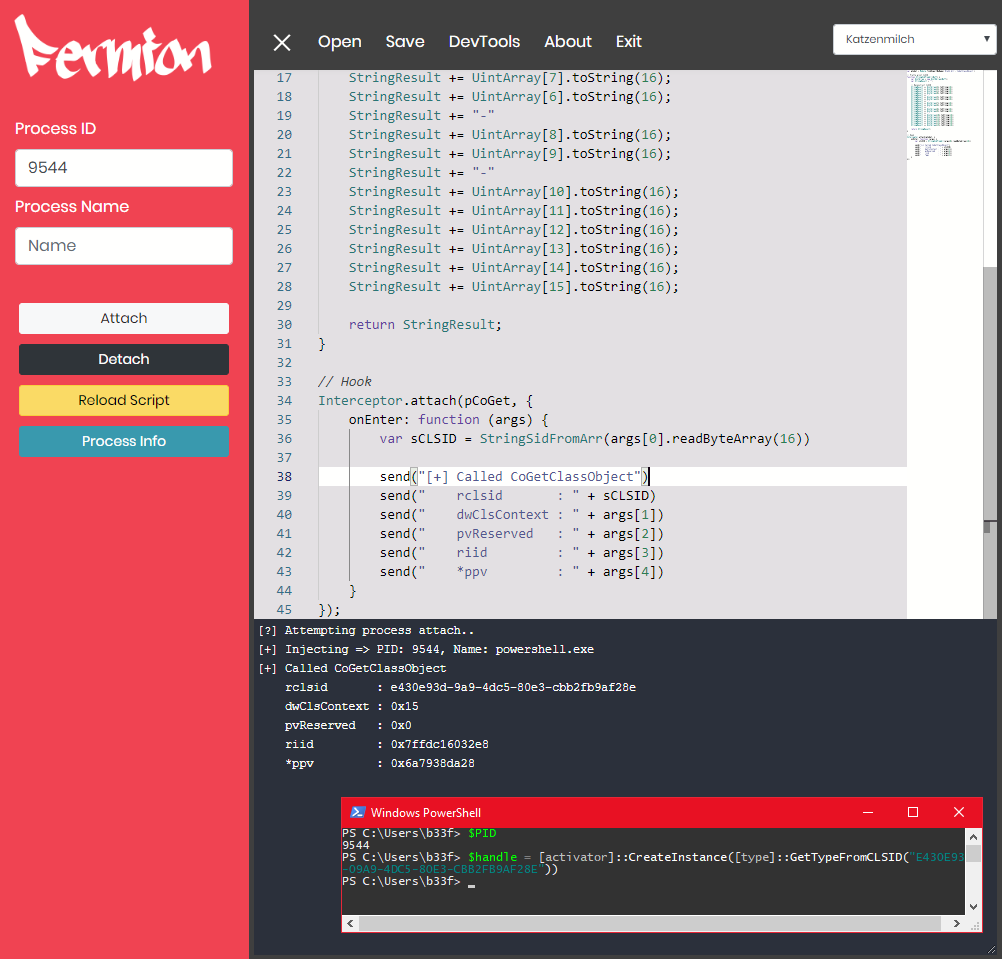
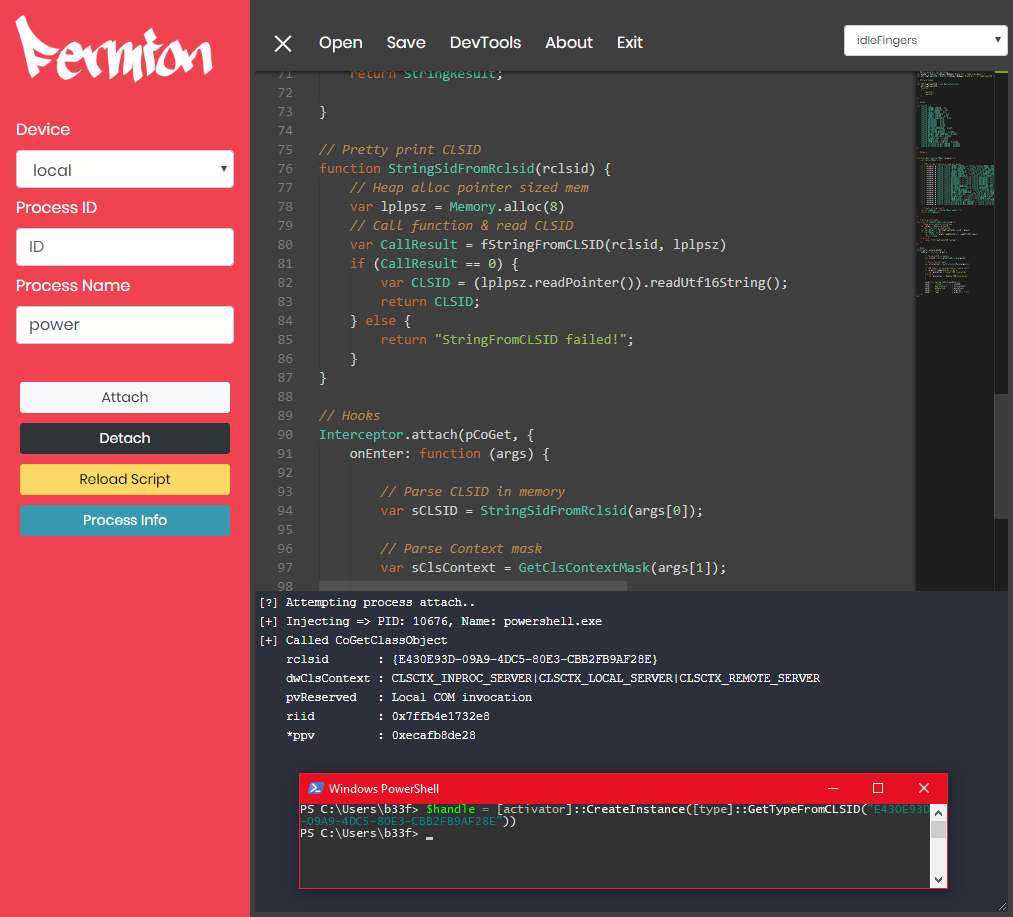
+Fermion-v06

diff --git a/Examples/CoGetClassObject.js b/Examples/CoGetClassObject.js
@@ -1,0 +1,118 @@
+//------------------------//
+// Hooking COM Invocation //
+//------------------------//
+
+// Native function pointers
+//-----------------------
+var pCoGet = Module.findExportByName('Ole32.dll','CoGetClassObject')
+var pStringFromCLSID = Module.findExportByName('Ole32.dll','StringFromCLSID')
+
+// API prototype
+//-----------------------
+var fStringFromCLSID = new NativeFunction(
+    pStringFromCLSID,
+    "uint32",
+    [
+        "pointer",
+        "pointer"
+    ]
+);
+
+// Enums
+//-----------------------
+var CLSCTX = {
+    CLSCTX_INPROC_SERVER : 0x1,
+    CLSCTX_INPROC_HANDLER : 0x2,
+    CLSCTX_LOCAL_SERVER : 0x4,
+    CLSCTX_INPROC_SERVER16 : 0x8,
+    CLSCTX_REMOTE_SERVER : 0x10,
+    CLSCTX_INPROC_HANDLER16 : 0x20,
+    CLSCTX_RESERVED1 : 0x40,
+    CLSCTX_RESERVED2 : 0x80,
+    CLSCTX_RESERVED3 : 0x100,
+    CLSCTX_RESERVED4 : 0x200,
+    CLSCTX_NO_CODE_DOWNLOAD : 0x400,
+    CLSCTX_RESERVED5 : 0x800,
+    CLSCTX_NO_CUSTOM_MARSHAL : 0x1000,
+    CLSCTX_ENABLE_CODE_DOWNLOAD : 0x2000,
+    CLSCTX_NO_FAILURE_LOG : 0x4000,
+    CLSCTX_DISABLE_AAA : 0x8000,
+    CLSCTX_ENABLE_AAA : 0x10000,
+    CLSCTX_FROM_DEFAULT_CONTEXT : 0x20000,
+    CLSCTX_ACTIVATE_32_BIT_SERVER : 0x40000,
+    CLSCTX_ACTIVATE_64_BIT_SERVER : 0x80000
+}
+
+// Helpers
+//-----------------------
+function GetClsContextMask (enumval) {
+    var ContextMask = [];
+
+    // IIRC JS can't natively read bit masks
+    if ( (enumval & CLSCTX.CLSCTX_INPROC_SERVER) == CLSCTX.CLSCTX_INPROC_SERVER) ContextMask.push("CLSCTX_INPROC_SERVER");
+    if ( (enumval & CLSCTX.CLSCTX_INPROC_HANDLER) == CLSCTX.CLSCTX_INPROC_HANDLER) ContextMask.push("CLSCTX_INPROC_HANDLER");
+    if ( (enumval & CLSCTX.CLSCTX_LOCAL_SERVER) == CLSCTX.CLSCTX_LOCAL_SERVER) ContextMask.push("CLSCTX_LOCAL_SERVER");
+    if ( (enumval & CLSCTX.CLSCTX_INPROC_SERVER16) == CLSCTX.CLSCTX_INPROC_SERVER16) ContextMask.push("CLSCTX_INPROC_SERVER16");
+    if ( (enumval & CLSCTX.CLSCTX_REMOTE_SERVER) == CLSCTX.CLSCTX_REMOTE_SERVER) ContextMask.push("CLSCTX_REMOTE_SERVER");
+    if ( (enumval & CLSCTX.CLSCTX_INPROC_HANDLER16) == CLSCTX.CLSCTX_INPROC_HANDLER16) ContextMask.push("CLSCTX_INPROC_HANDLER16");
+    if ( (enumval & CLSCTX.CLSCTX_RESERVED1) == CLSCTX.CLSCTX_RESERVED1) ContextMask.push("CLSCTX_RESERVED1");
+    if ( (enumval & CLSCTX.CLSCTX_RESERVED2) == CLSCTX.CLSCTX_RESERVED2) ContextMask.push("CLSCTX_RESERVED2");
+    if ( (enumval & CLSCTX.CLSCTX_RESERVED3) == CLSCTX.CLSCTX_RESERVED3) ContextMask.push("CLSCTX_RESERVED3");
+    if ( (enumval & CLSCTX.CLSCTX_RESERVED4) == CLSCTX.CLSCTX_RESERVED4) ContextMask.push("CLSCTX_RESERVED4");
+    if ( (enumval & CLSCTX.CLSCTX_NO_CODE_DOWNLOAD) == CLSCTX.CLSCTX_NO_CODE_DOWNLOAD) ContextMask.push("CLSCTX_NO_CODE_DOWNLOAD");
+    if ( (enumval & CLSCTX.CLSCTX_RESERVED5) == CLSCTX.CLSCTX_RESERVED5) ContextMask.push("CLSCTX_RESERVED5");
+    if ( (enumval & CLSCTX.CLSCTX_NO_CUSTOM_MARSHAL) == CLSCTX.CLSCTX_NO_CUSTOM_MARSHAL) ContextMask.push("CLSCTX_NO_CUSTOM_MARSHAL");
+    if ( (enumval & CLSCTX.CLSCTX_ENABLE_CODE_DOWNLOAD) == CLSCTX.CLSCTX_ENABLE_CODE_DOWNLOAD) ContextMask.push("CLSCTX_ENABLE_CODE_DOWNLOAD");
+    if ( (enumval & CLSCTX.CLSCTX_NO_FAILURE_LOG) == CLSCTX.CLSCTX_NO_FAILURE_LOG) ContextMask.push("CLSCTX_NO_FAILURE_LOG");
+    if ( (enumval & CLSCTX.CLSCTX_DISABLE_AAA) == CLSCTX.CLSCTX_DISABLE_AAA) ContextMask.push("CLSCTX_DISABLE_AAA");
+    if ( (enumval & CLSCTX.CLSCTX_ENABLE_AAA) == CLSCTX.CLSCTX_ENABLE_AAA) ContextMask.push("CLSCTX_ENABLE_AAA");
+    if ( (enumval & CLSCTX.CLSCTX_FROM_DEFAULT_CONTEXT) == CLSCTX.CLSCTX_FROM_DEFAULT_CONTEXT) ContextMask.push("CLSCTX_FROM_DEFAULT_CONTEXT");
+    if ( (enumval & CLSCTX.CLSCTX_ACTIVATE_32_BIT_SERVER) == CLSCTX.CLSCTX_ACTIVATE_32_BIT_SERVER) ContextMask.push("CLSCTX_ACTIVATE_32_BIT_SERVER");
+    if ( (enumval & CLSCTX.CLSCTX_ACTIVATE_64_BIT_SERVER) == CLSCTX.CLSCTX_ACTIVATE_64_BIT_SERVER) ContextMask.push("CLSCTX_ACTIVATE_64_BIT_SERVER");
+    
+    // Create string result
+    var StringResult = ContextMask.join("|");
+    return StringResult;
+
+}
+
+// Call native Ole32!StringFromCLSID to resolve CLSID
+function StringSidFromRclsid(rclsid) {
+    // Heap alloc pointer sized mem
+    var lplpsz = Memory.alloc(8)
+    // Call function & read CLSID
+    var CallResult = fStringFromCLSID(rclsid, lplpsz)
+    if (CallResult == 0) {
+        var CLSID = (lplpsz.readPointer()).readUtf16String();
+        return CLSID;
+    } else {
+        return "StringFromCLSID failed!";
+    }
+}
+
+// Hooks
+//-----------------------
+Interceptor.attach(pCoGet, {
+	onEnter: function (args) {
+
+        // Parse CLSID in memory
+		var sCLSID = StringSidFromRclsid(args[0]);
+
+        // Parse Context mask
+        var sClsContext = GetClsContextMask(args[1]);
+
+        // COM object is initialized on remote host?
+        if (args[2].compare(0x0) == 0) {
+            var pLocation = "Local COM invocation"
+        } else {
+            var pLocation = "Remote COM invocation"
+        }
+
+		send("[+] Called CoGetClassObject")
+		send("    rclsid       : " + sCLSID)
+		send("    dwClsContext : " + sClsContext)
+		send("    pvReserved   : " + pLocation)
+		send("    riid         : " + args[3])
+		send("    *ppv         : " + args[4] + "\n")
+	}
+});

diff --git a/Fermion/src/render.js b/Fermion/src/render.js
@@ -22,6 +22,7 @@ let script = null;
 let session = null;
 let logMutex = new MutexPromise('48011b2b9a930ee19e26320e5adbffa2e309663c');
 let RunningLog = [];
+var deviceId = 'local';
 
 // Attach
 async function inject(AttachTo) {
@@ -30,7 +31,8 @@ async function inject(AttachTo) {
 	process.on('SIGINT', stop);
 
 	// Attach and load script
-	session = await frida.attach(AttachTo);
+	device = await frida.getDevice(deviceId);
+	session = await device.attach(AttachTo);
 	session.detached.connect(onDetached);
 	script = await session.createScript(MonacoCodeEditor.getValue());
 
@@ -64,8 +66,8 @@ function onDetached(reason) {
 
 // Process listing
 async function getProcList() {
-	let LocalMachine = await frida.getDevice('local');
-	let Applications = await LocalMachine.enumerateProcesses();
+	let currentDevice = await frida.getDevice(deviceId);
+	let Applications = await currentDevice.enumerateProcesses();
 	return Applications;
 }
 
@@ -122,6 +124,8 @@ document.getElementById("FridaAttach").onclick = function () {
 					appendFridaLog(e);
 				});
 			}
+		}).catch((err) => {
+			appendFridaLog(`[!] Error: ${err.message}`);
 		});
 
 	} else {
@@ -172,12 +176,49 @@ document.getElementById("FridaProc").onclick = function () {
 		backgroundColor: '#464646',
 		webPreferences: { nodeIntegration: true }
 	})
-	ProcWin.loadURL(modalPath);
+	ProcWin.loadURL(modalPath+"?deviceId="+deviceId);
 	ProcWin.once('ready-to-show', () => {
 		ProcWin.show();
 		ProcWin.focus();
 	});
 	ProcWin.on('close', function () { ProcWin = null })
+}
+
+async function updateDeviceList() {
+	// Get dropdown array
+	var dn = document.getElementById("deviceName");
+	var currentDevice = dn.options[deviceName.selectedIndex].value;
+	var dnArr = Array.from(dn.options).map(elem => elem.text);
+
+	// Get device array
+	var dm = frida.getDeviceManager();
+	var dev = await dm.enumerateDevices();
+	var devArr = dev.map(elem => elem.id);
+
+	// Does the current device still exist?
+	if (!devArr.includes(currentDevice)) {
+		// Local is always a valid target
+		dn.selectedIndex = 0;
+		deviceId = 'local';
+	}
+
+	// Remove stale entries from the dropdown
+	dnArr.forEach(function(elem) {
+		if (!devArr.includes(elem)) {
+			$(`#deviceName option:contains("${elem}")`).remove()
+		}
+	})
+
+	// Add new entries to the dropdown
+	devArr.forEach(function(elem) {
+		if (!dnArr.includes(elem) && elem != "tcp") {
+			$("#deviceName").append(new Option(elem))
+		}
+	})
+}
+
+document.getElementById("deviceName").onchange = function () {
+	deviceId = this.value;
 }
 
 // Menu UI hooks

diff --git a/Fermion/src/proc.html b/Fermion/src/proc.html
@@ -16,8 +16,13 @@
 			width: 0px;
 		}
 
-		td, th {
+		p, td, th {
 			color: #ffffff !important;
+		}
+
+		p {
+			font-weight: bold;
+			padding-top: 50%;
 		}
 
 		div.barFrame {
@@ -57,7 +62,7 @@
 			</a>
 		</div>
 
-		<div class="row dataFrame">
+		<div id="DataContainer" class="row dataFrame">
 			<table id="ProcSet" class="table table-borderless table-hover table-sm">
 				<thead>
 					<tr>
@@ -69,6 +74,7 @@
 				</tbody>
 			</table>
 		</div>
+		<div id="IsError"></div>
 	</div>
 
 	<script type="text/javascript">
@@ -76,10 +82,14 @@
 		// Overwrite default node.js prop to get Jquery working
 		window.$ = window.jQuery = require('jquery');
 
+		// Get device currently selected
+		url = global.location;
+		deviceId = new URL(url).searchParams.get('deviceId');
+
 		// Populate poc list
 		async function getProcList() {
-			let LocalMachine = await frida.getDevice("local");
-			let Applications = await LocalMachine.enumerateProcesses();
+			let currentDevice = await frida.getDevice(deviceId);
+			let Applications = await currentDevice.enumerateProcesses();
 			return Applications;
 		}
 		getProcList().then(data => {
@@ -99,6 +109,12 @@
 				pid.innerHTML = data[i].pid;
 				name.innerHTML = data[i].name;
 			}
+		}).catch((err) => {
+			$("#ProcSet").remove();
+			var node = document.createElement("p");
+			var errMsg = document.createTextNode(err.message);
+			node.appendChild(errMsg);
+			document.getElementById("DataContainer").appendChild(node);
 		});
 
 		// Close window handler

diff --git a/Fermion/src/frida.html b/Fermion/src/frida.html
@@ -28,6 +28,12 @@
 
 			<ul class="list-unstyled components">
 				<div class="form-group mx-sm-3 mb-2">
+					<label for="deviceName">Device</label>
+					<select type="deviceName" class="form-control" id="deviceName">
+						<option>local</option>
+					</select>
+				</div>
+				<div class="form-group mx-sm-3 mb-2">
 					<label for="procID">Process ID</label>
 					<input type="procID" class="form-control" id="procID" placeholder="ID">
 				</div>
@@ -180,7 +186,7 @@
 			var editor = monaco.editor.create(document.getElementById('container'), {
 				value: [
 					'//-------------------------------------------//',
-					'//              Fermion v0.5                 //',
+					'//              Fermion v0.6                 //',
 					'//                                    ~b33f  //',
 					'//-------------------------------------------//',
 					'',
@@ -207,7 +213,6 @@
 					'//   |-> But this: send("Hello from Frida!")'
 				].join('\n'),
 				language: 'typescript',
-				//theme: "vs-dark",
 				scrollBeyondLastLine: false,
 				automaticLayout: true
 			});
@@ -218,6 +223,14 @@
 
 			// Store the editor reff as a global var
 			MonacoCodeEditor = editor;
+
+			// Update device list
+			updateDeviceList();
+
+			// Configure interval to update device list
+			setInterval(function(){
+				updateDeviceList();
+			}, 5000);
 		});
 	})();
 

diff --git a/README.md b/README.md
@@ -77,3 +77,4 @@ I just want to give a few special thanks!
 
 * A huge thanks to [Ole André V. Ravnås](https://twitter.com/oleavr) for all his work on Frida and having a lot of patience answering my pedestrian questions about Frida, NodeJS and Monaco!
 * A shout-out also to [mattahan](https://www.deviantart.com/mattahan). I'm using a Buuf icon for the Windows package of Fermion. I'm sure we have all used some of his icons on NIX over the years.
+* Thanks to @lez0sec for contributing some time/code to Fermion!
